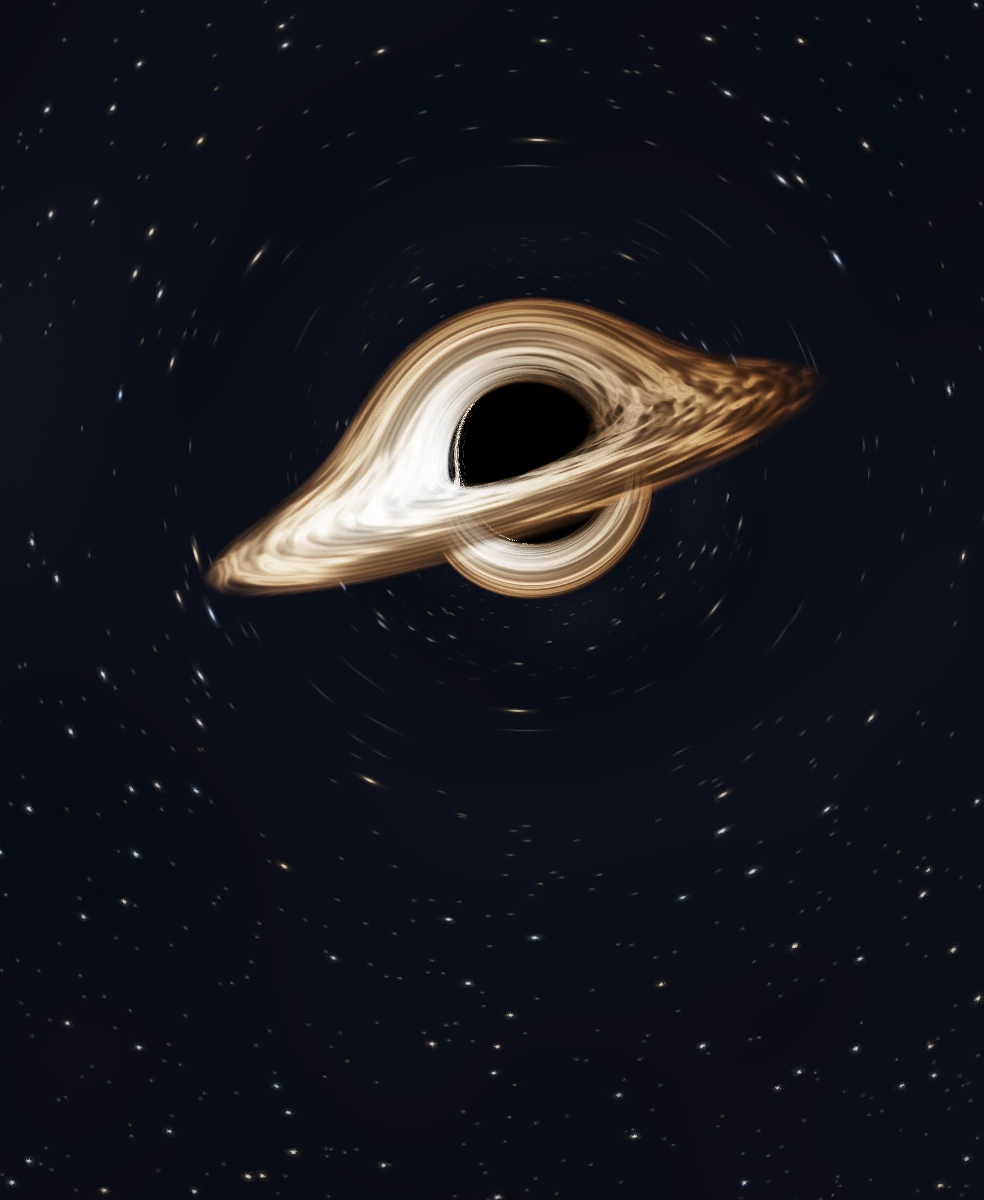
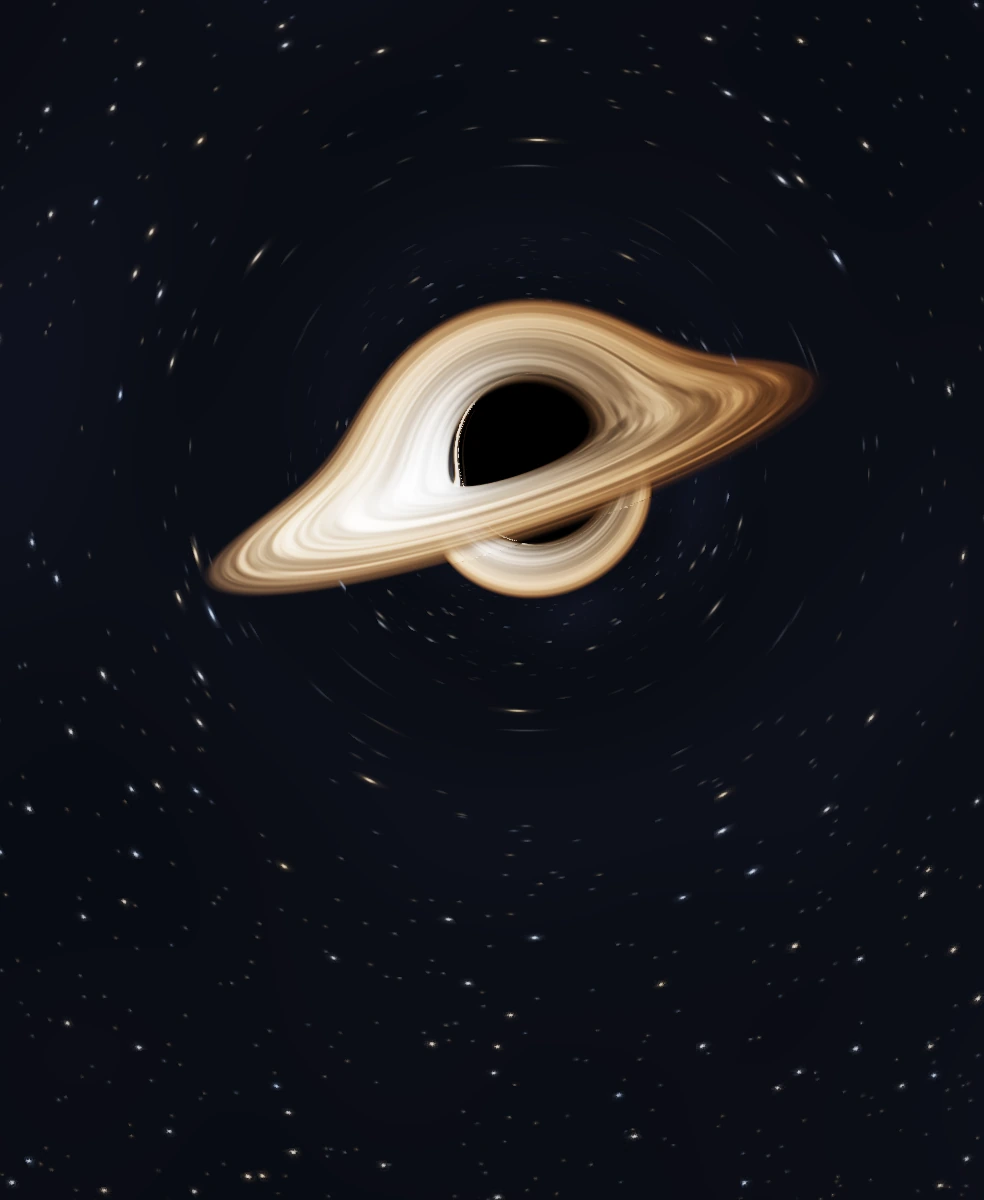
Replace disk clumps with filtered polar filaments based on NPGS

Changed region(s): [[0.2134, 0.2467, 0.8232, 0.4933]]

diff --git a/academics.html b/academics.html
@@ -9,7 +9,7 @@
   <title>学术集 | CMC</title>
   <link rel="stylesheet" href="/assets/css/style.css">
   <link rel="stylesheet" href="/assets/css/site-ui.css?v=20260911-shared-ui">
-  <link rel="stylesheet" href="/assets/css/academics.css?v=20261003-flow2">
+  <link rel="stylesheet" href="/assets/css/academics.css?v=20261003-filaments1">
   <link rel="stylesheet" href="/assets/css/liquid-glass.css?v=20260911-glass1">
 </head>
 <body class="ui-page academic-cosmos glass-ui">
@@ -66,7 +66,7 @@
 
   <footer class="site-footer"><div class="container footer-wrap"><span>© <span id="year"></span> CMC</span></div></footer>
   <script src="/assets/js/main.js"></script>
-  <script src="/assets/js/academic-black-hole.js?v=20261003-flow2" defer></script>
+  <script src="/assets/js/academic-black-hole.js?v=20261003-filaments1" defer></script>
   <script src="/assets/js/site-ui.js?v=20260911-shared-ui" defer></script>
   <script src="/assets/js/liquid-glass.js?v=20260911-glass1" defer></script>
 </body>

diff --git a/assets/css/academics.css b/assets/css/academics.css
@@ -22,7 +22,7 @@ body.academic-cosmos{
   overflow:hidden;
   pointer-events:none;
   /* Match the renderer's height-based projection and the same image anchor. */
-  background:#030710 url("../images/academic-npgs-desktop.webp?v=20261003-flow2") var(--cosmos-center-x) var(--cosmos-center-y) / auto 100% no-repeat;
+  background:#030710 url("../images/academic-npgs-desktop.webp?v=20261003-filaments1") var(--cosmos-center-x) var(--cosmos-center-y) / auto 100% no-repeat;
 }
 
 .academic-cosmos .cosmos-bg canvas{
@@ -167,7 +167,7 @@ body.academic-cosmos{
     --cosmos-center-x:52%;
     --cosmos-center-y:39%;
     --cosmos-view-span:36;
-    background-image:url("../images/academic-npgs-mobile.webp?v=20261003-flow2");
+    background-image:url("../images/academic-npgs-mobile.webp?v=20261003-filaments1");
   }
 
   .academic-cosmos .cosmos-bg::after{

diff --git a/assets/js/academic-black-hole.js b/assets/js/academic-black-hole.js
@@ -6,7 +6,7 @@
   'use strict';
   const canvas = document.getElementById('academic-black-hole');
   if (!canvas) return;
-  const VERSION = '20261003-flow2';
+  const VERSION = '20261003-filaments1';
   const baseUrl = new URL('../shaders/', document.currentScript.src);
   const reducedMotion = matchMedia('(prefers-reduced-motion: reduce)');
   const mobile = matchMedia('(max-width: 820px), (pointer: coarse)');
